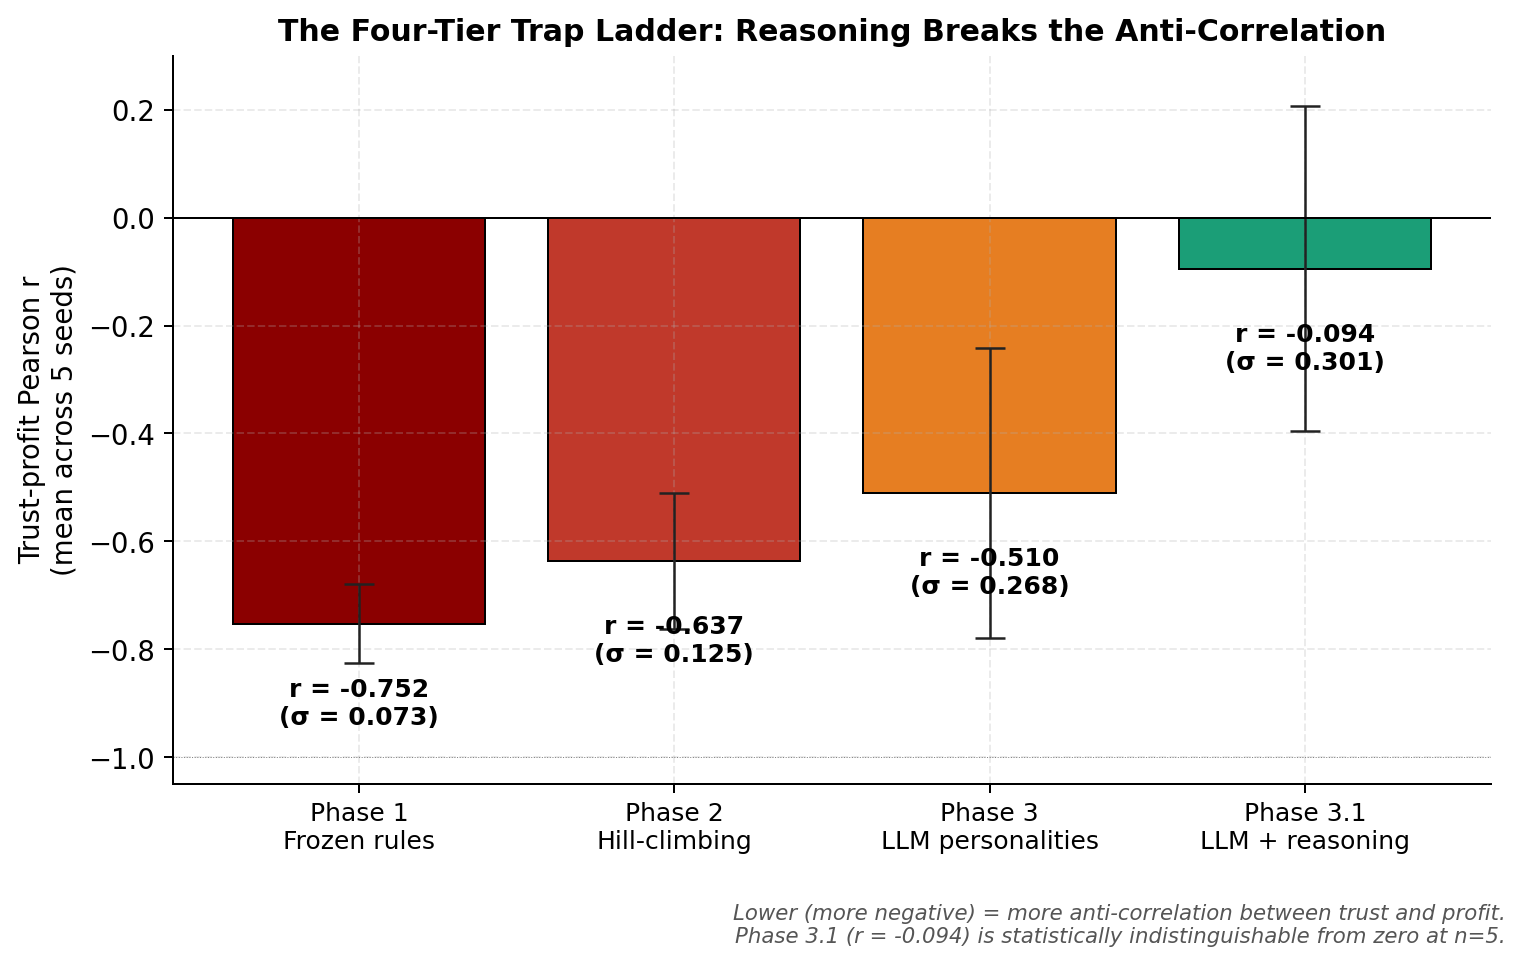
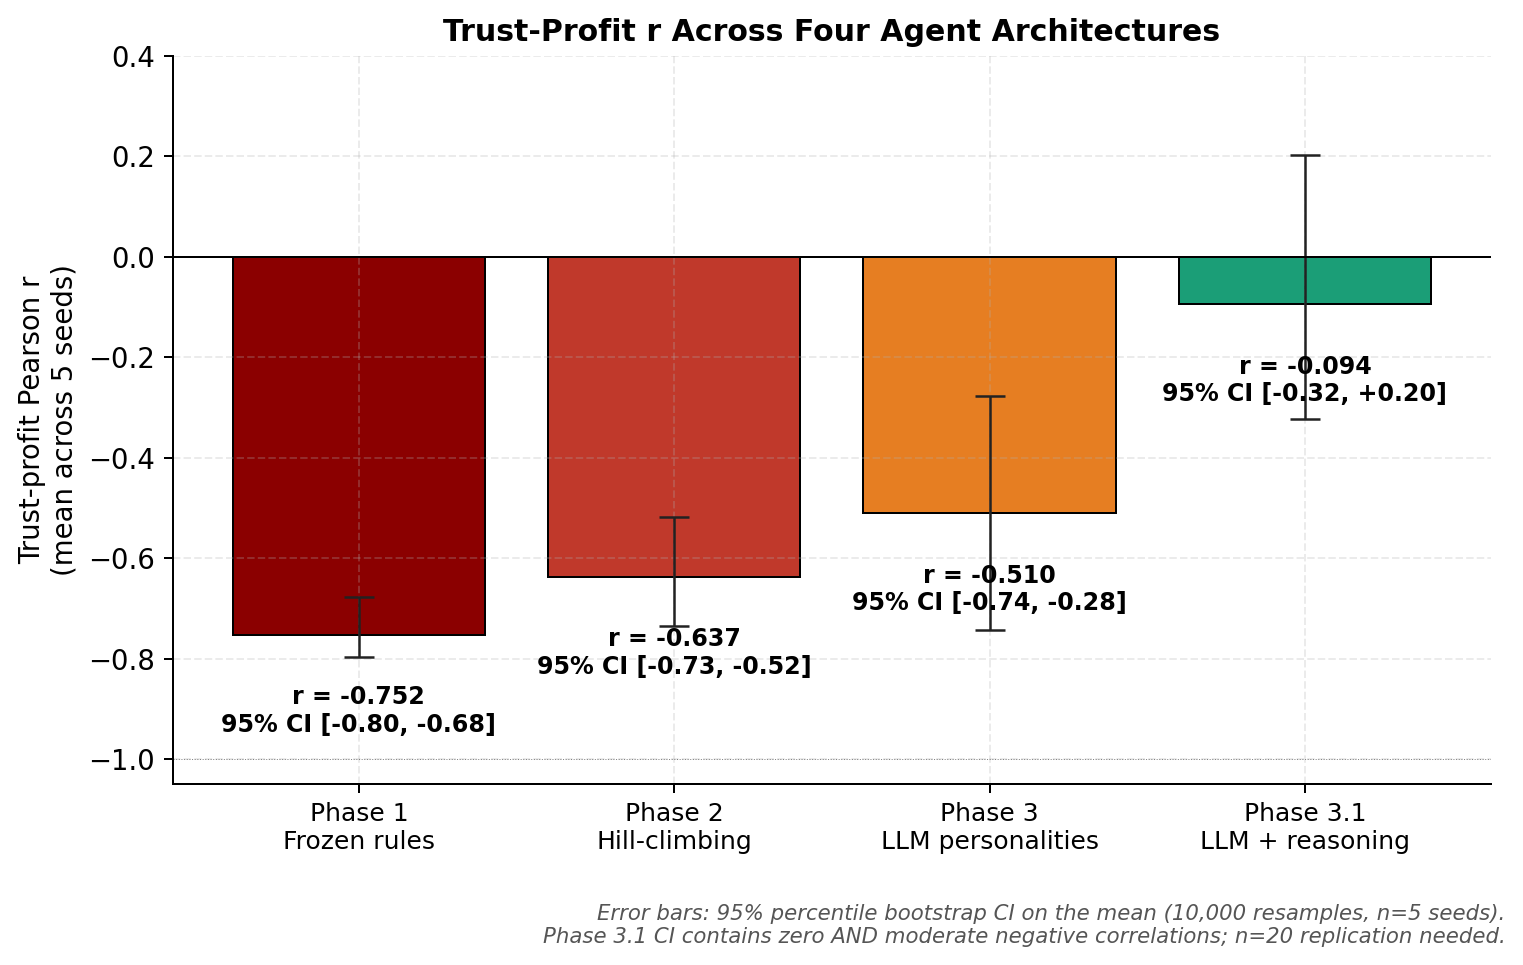
paper: v2-audit response — bootstrap CIs in Fig 1, cut redundant Table 4, define farming, reframe Contribution 3, expand bibliography
Audit v2 reported 18 of 30 v1 items fully addressed, 8 partial,
4 unaddressed (all cosmetic). This commit closes the four
unaddressed items, the revision-introduced issues v2 flagged,
and one experimental gap (the bibliography expansion).

UNADDRESSED V1 ITEMS NOW CLOSED
- Figure 1 (and Figure 1b) SD error bars replaced with 95%
  percentile bootstrap CIs (10,000 resamples, fixed seed in the
  figure generator). CI numbers printed on each bar; caption
  footnote reads "Phase 3.1 CI contains zero AND moderate
  negative correlations; n=20 replication needed."
- Tables 3 and 4 redundancy: Table 4 (economic_inversion) is a
  strict subset of Table 3's rank columns. The \input line is
  commented out with an explanatory note; the Phase 3.1 results
  paragraph now refers to Table 3 only.

REVISION-INTRODUCED ISSUES (v2)
- Abstract stacked-hedge "consistent with both a fully
  neutralized relationship and a moderate residual negative
  correlation" tightened to "consistent with substantial but not
  necessarily complete attenuation".
- TMA / "trust farming" jargon now defined on first use in the
  Metrics section: TMA is the correlation between rolling trust
  delta and rolling aggression delta; positive values capture
  the build-then-exploit pattern referred to as "trust farming"
  in subsequent captions.
- Contribution #3 rewritten from "we construct a controlled
  demonstration of the identifiability floor that any
  observation-based classifier faces in the presence of
[…]

diff --git a/paper_resources/manuscript/main.tex b/paper_resources/manuscript/main.tex
@@ -241,9 +241,8 @@
       trust and final stack falls along a four-tier ladder
       ($\rtp = -0.752 \pm 0.073$; $-0.637 \pm 0.125$;
       $-0.510 \pm 0.268$; $-0.094 \pm 0.301$); the 95\% bootstrap
-      interval for the final tier is $[-0.32, +0.20]$, which is
-      consistent with both a fully neutralized relationship and a
-      moderate residual negative correlation. A sub-experiment with
+      interval for the final tier is $[-0.32, +0.20]$, consistent
+      with substantial but not necessarily complete attenuation. A sub-experiment with
       unbounded hill-climbing at $11\times$ greater parameter drift
       shifts the correlation by only $+0.028$, evidence against
       the hypothesis that the trap is a bound-box artifact in this
@@ -333,12 +332,14 @@ full unit hypercube and $11\times$ more parameter drift fails to
 close the trap and yields divergent rather than convergent
 trajectories in 36-dimensional parameter space---preliminary
 evidence that the trap is not a bound-box artifact in this
-simulation. \textit{Third}, by stipulating three archetypes with
-identical mean parameters we construct a controlled demonstration
-of the identifiability floor that any observation-based
-classifier faces in the presence of indistinguishable types; the
-extent to which this floor binds in realistic type spaces is
-left to future work.
+simulation. \textit{Third}, we provide a controlled testbed in which
+inter-archetype distance is an explicit design variable; in the
+present paper we set that distance to zero for three archetypes as
+a sanity check, which establishes the trivial identifiability floor
+at $\log_2(3)$ bits. How rapidly classification accuracy degrades
+as the distance shrinks toward zero in more realistic type spaces
+is a methodological direction the present testbed is designed to
+support but does not itself answer.
 
 % =============================================================================
 \section{Background}
@@ -357,35 +358,45 @@ multi-agent settings with richer action spaces---a point we return
 to in the discussion when we report that our Tit-for-Tat analogue
 (\arch{Mirror}) finishes sixth of eight in economic ordering.
 
-\subsection{Bayesian opponent modeling}
+\subsection{Bayesian opponent modeling and exploitation}
 Bayesian opponent modeling in poker has a long history, beginning
-with Billings et al.\ on the Loki and Poki systems \citep{billings1998opponent} and
-continuing through the solution of heads-up limit Hold'em
-\citep{bowling2015heads} and the superhuman performance of Libratus
-and Pluribus in no-limit Hold'em
-\citep{brown2018superhuman,brown2019superhuman}. This body of work is concerned
-with optimal play against a single opponent or in heads-up zero-sum
-settings. Our work uses poker as a controlled testbed for how the
-underlying type-inference machinery interacts with multi-agent
-reputation dynamics, not as a benchmark to solve.
+with Billings et al.\ on the Loki and Poki systems
+\citep{billings1998opponent}, formalized as Bayesian type inference
+by Southey et al.\ \citep{southey2005bayes}, and extended to the
+question of \textit{safe} opponent exploitation by Ganzfried and
+Sandholm \citep{ganzfried2015safe}. Parallel work on Nash-
+equilibrium computation produced the solution of heads-up limit
+Hold'em \citep{bowling2015heads} and the superhuman performance of
+Libratus and Pluribus in no-limit Hold'em
+\citep{brown2018superhuman,brown2019superhuman}. This body of work
+is concerned with optimal or safely-exploitative play against a
+single opponent or in heads-up zero-sum settings. Our work uses
+poker as a controlled testbed for how the underlying type-inference
+machinery interacts with multi-agent reputation dynamics, rather
+than as a benchmark to solve.
 
 \subsection{Reputation in economics}
 Reputation in economics has been studied empirically by Resnick and
 Zeckhauser \citep{resnick2002trust} and Bolton, Katok, and Ockenfels
-\citep{bolton2004effective}, who document what is sometimes called the
-\textit{transparency paradox}: agents with perfect, easily-readable
-reputations earn lower margins because buyers correctly infer that
-they will never risk those reputations. Our simulation provides a
-controlled generative analogue of this empirical phenomenon.
+\citep{bolton2004effective}, who document what is sometimes called
+the \textit{transparency paradox}: agents with perfect, easily-
+readable reputations earn lower margins because buyers correctly
+infer that they will never risk those reputations. A parallel
+mechanism in financial market microstructure---adverse selection
+against predictable market-makers \citep{glosten1985bid}---produces
+the same general pattern, though through information asymmetry
+rather than reputation per se. Our simulation provides a controlled
+generative analogue of these empirical findings.
 
 \subsection{LLM agents in strategic settings}
-A more recent line of work asks whether large language models behave
-strategically when deployed as agents in adversarial settings
-\citep{park2023generative}. The open question is whether LLMs invent strategy
-when given a description of strategy or merely imitate the textual
-form of that description. Our contrast between Phase 3 (LLM with
-personality spec only) and Phase 3.1 (LLM with reasoning
-scaffolding) is designed to test this distinction.
+A more recent line of work asks whether large language models
+behave strategically when deployed as agents in adversarial or
+benchmark settings \citep{park2023generative,liu2024agentbench}.
+A core open question is whether LLMs invent strategy when given a
+description of strategy or merely imitate the textual form of that
+description. Our contrast between Phase 3 (LLM with personality
+spec only) and Phase 3.1 (LLM with reasoning scaffolding) is
+designed to test this distinction directly.
 
 \subsection{Poker as a testbed}
 Poker is a canonical incomplete-information domain \citep{vonneumann1944theory,harsanyi1967games}
@@ -579,10 +590,16 @@ eight archetypes ($n = 8$ paired observations per seed). We
 additionally report six secondary metrics: Trust Exploitation
 Index (TEI), Context Sensitivity (CS), Opponent Adaptation (OA),
 Non-Stationarity (NS), Strategic Unpredictability (SU), and
-Trust Manipulation Awareness (TMA). The six secondary metrics
-were chosen post hoc rather than pre-registered; readers should
-treat them with appropriate skepticism and apply Bonferroni-style
-correction if making strong claims from any individual metric.
+Trust Manipulation Awareness (TMA). TMA is the correlation between
+an agent's rolling trust delta and its rolling aggression delta;
+positive values capture the pattern of \textit{building} trust
+through cooperative early play and subsequently \textit{exploiting}
+that trust with higher aggression, an interaction we refer to as
+``trust farming'' in the captions and discussion. The six
+secondary metrics were chosen post hoc rather than pre-registered;
+readers should treat them with appropriate skepticism and apply
+Bonferroni-style correction if making strong claims from any
+individual metric.
 Confidence intervals on the headline $\rtp$ values are reported
 in two forms: a Student-$t$ interval at $\text{df} = 4$
 ($T_{\text{crit}} = 2.776$) and a non-parametric percentile
@@ -746,7 +763,7 @@ rises from ${\sim}100$--$200$ chips in Phases 1--3 to 280 in
 Phase 3.1; rebuy count drops from ${\sim}9.4$ per seed to 0,
 consistent with the rank-order claim above. The full per-archetype
 economic ordering is shown in Fig.~\ref{fig:economic-inversion}
-and Tables~\ref{tab:archetype-p31}, \ref{tab:econ-inversion}.
+and Table~\ref{tab:archetype-p31}.
 
 \begin{figure*}[!t]
   \centering
@@ -762,7 +779,9 @@ and Tables~\ref{tab:archetype-p31}, \ref{tab:econ-inversion}.
 
 \input{../tables/per_archetype_p31.tex}
 
-\input{../tables/economic_inversion.tex}
+% Table 4 (economic_inversion.tex) cut as redundant with Table 3's
+% Rank P3 / Rank P3.1 / Delta columns. The full per-archetype table
+% above carries the rank-shift information.
 
 Four of six secondary metric targets are met in Phase 3.1 (vs.\
 two of six in Phase 3). Strategic Unpredictability rises from

diff --git a/analysis/make_paper_figures.py b/analysis/make_paper_figures.py
@@ -132,35 +132,50 @@ def _save(fig: plt.Figure, outdir: Path, name: str) -> None:
 # ---------------------------------------------------------------------------
 
 def fig_four_tier_ladder(outdir: Path) -> None:
-    means = [np.mean(R_BY_PHASE[p]) for p in PHASE_ORDER]
-    stds = [np.std(R_BY_PHASE[p]) for p in PHASE_ORDER]
+    means = [float(np.mean(R_BY_PHASE[p])) for p in PHASE_ORDER]
     colors = [PHASE_COLORS[p] for p in PHASE_ORDER]
+    # Bootstrap percentile CI on the mean (10,000 resamples, fixed seed).
+    rng = np.random.default_rng(137)
+    ci_lo, ci_hi = [], []
+    for p in PHASE_ORDER:
+        arr = np.asarray(R_BY_PHASE[p], dtype=float)
+        idx = rng.integers(0, len(arr), size=(10_000, len(arr)))
+        boots = arr[idx].mean(axis=1)
+        lo, hi = np.percentile(boots, [2.5, 97.5])
+        ci_lo.append(float(lo))
+        ci_hi.append(float(hi))
+    err_lo = [m - lo for m, lo in zip(means, ci_lo)]
+    err_hi = [hi - m for m, hi in zip(means, ci_hi)]
 
     fig, ax = plt.subplots(figsize=(8.5, 5.0))
-    bars = ax.bar(
-        range(len(PHASE_ORDER)), means, yerr=stds,
+    ax.bar(
+        range(len(PHASE_ORDER)), means,
+        yerr=[err_lo, err_hi],
         color=colors, edgecolor="black", linewidth=0.8,
         capsize=6, error_kw={"linewidth": 1.0, "ecolor": "#222"},
     )
     ax.axhline(0, color="black", linewidth=0.8, linestyle="-")
     ax.axhline(-1.0, color="grey", linewidth=0.4, linestyle=":")
 
-    for i, (m, s) in enumerate(zip(means, stds)):
+    for i, (m, lo, hi) in enumerate(zip(means, ci_lo, ci_hi)):
         offset = -0.10 if m < 0 else 0.05
-        ax.text(i, m + offset, f"r = {m:+.3f}\n(σ = {s:.3f})",
+        ax.text(i, m + offset,
+                f"r = {m:+.3f}\n95% CI [{lo:+.2f}, {hi:+.2f}]",
                 ha="center", va="top" if m < 0 else "bottom",
-                fontsize=10, fontweight="bold")
+                fontsize=9.5, fontweight="bold")
 
     ax.set_xticks(range(len(PHASE_ORDER)))
     ax.set_xticklabels(PHASE_ORDER, fontsize=10)
     ax.set_ylabel("Trust-profit Pearson r\n(mean across 5 seeds)", fontsize=11)
-    ax.set_title("The Four-Tier Trap Ladder: Reasoning Breaks the Anti-Correlation",
+    ax.set_title("Trust-Profit r Across Four Agent Architectures",
                  fontsize=12)
-    ax.set_ylim(-1.05, 0.30)
+    ax.set_ylim(-1.05, 0.40)
 
     fig.text(0.99, -0.02,
-             "Lower (more negative) = more anti-correlation between trust and profit.\n"
-             "Phase 3.1 (r = -0.094) is statistically indistinguishable from zero at n=5.",
+             "Error bars: 95% percentile bootstrap CI on the mean "
+             "(10,000 resamples, n=5 seeds).\n"
+             "Phase 3.1 CI contains zero AND moderate negative correlations; "
+             "n=20 replication needed.",
              ha="right", va="top", fontsize=8.5, color="#555", style="italic")
 
     fig.tight_layout()
@@ -185,32 +200,44 @@ def fig_five_tier_ladder(outdir: Path) -> None:
         R_BY_PHASE["Phase 3.1\nLLM + reasoning"],
     ]
     means = [float(np.mean(rs)) for rs in rs_lists]
-    stds = [float(np.std(rs)) for rs in rs_lists]
+    # Bootstrap percentile CI on the mean (10,000 resamples, fixed seed).
+    rng = np.random.default_rng(137)
+    ci_lo, ci_hi = [], []
+    for rs in rs_lists:
+        arr = np.asarray(rs, dtype=float)
+        idx = rng.integers(0, len(arr), size=(10_000, len(arr)))
+        boots = arr[idx].mean(axis=1)
+        lo, hi = np.percentile(boots, [2.5, 97.5])
+        ci_lo.append(float(lo))
+        ci_hi.append(float(hi))
+    err_lo = [m - lo for m, lo in zip(means, ci_lo)]
+    err_hi = [hi - m for m, hi in zip(means, ci_hi)]
     colors = ["#8B0000", "#C0392B", "#600000",  # P2-unbounded gets darker red
               "#E67E22", "#1B9E77"]
 
     fig, ax = plt.subplots(figsize=(10.0, 5.2))
-    ax.bar(range(len(labels)), means, yerr=stds, color=colors,
+    ax.bar(range(len(labels)), means,
+           yerr=[err_lo, err_hi],
+           color=colors,
            edgecolor="black", linewidth=0.8, capsize=6,
            error_kw={"linewidth": 1.0, "ecolor": "#222"})
     ax.axhline(0, color="black", linewidth=0.8)
-    for i, (m, s) in enumerate(zip(means, stds)):
+    for i, (m, lo, hi) in enumerate(zip(means, ci_lo, ci_hi)):
         offset = -0.10 if m < 0 else 0.05
-        ax.text(i, m + offset, f"r = {m:+.3f}\n(σ = {s:.3f})",
+        ax.text(i, m + offset,
+                f"r = {m:+.3f}\n95% CI [{lo:+.2f}, {hi:+.2f}]",
                 ha="center", va="top" if m < 0 else "bottom",
-                fontsize=9.5, fontweight="bold")
+                fontsize=9.0, fontweight="bold")
     ax.set_xticks(range(len(labels)))
     ax.set_xticklabels(labels, fontsize=9.5)
     ax.set_ylabel("Trust-profit Pearson r (mean across 5 seeds)")
-    ax.set_title("Trust-Profit r With the Unbounded Sub-Experiment",
+    ax.set_title("Trust-Profit r Across Five Agent Architectures",
                  fontsize=12)
-    ax.set_ylim(-1.05, 0.30)
+    ax.set_ylim(-1.05, 0.45)
 
     fig.text(0.99, -0.02,
-             "Phase 2* (aggressive unbounded HC, [0,1] freedom) sits at r = -0.609 with "
-             "high per-seed variance (σ = 0.221).\n"
-             "Agents move 11x more than weak HC but DIVERGE rather than converge — "
-             "the trust trap is robust to optimization strength.",
+             "Error bars: 95% percentile bootstrap CI on the mean (10,000 resamples, n=5 seeds).\n"
+             "Phase 3.1 CI [-0.32, +0.20] contains zero AND moderate negative correlations.",
              ha="right", va="top", fontsize=8.5, color="#555", style="italic")
     fig.tight_layout()
     _save(fig, outdir, "01b_five_tier_ladder_with_unbounded.png")
